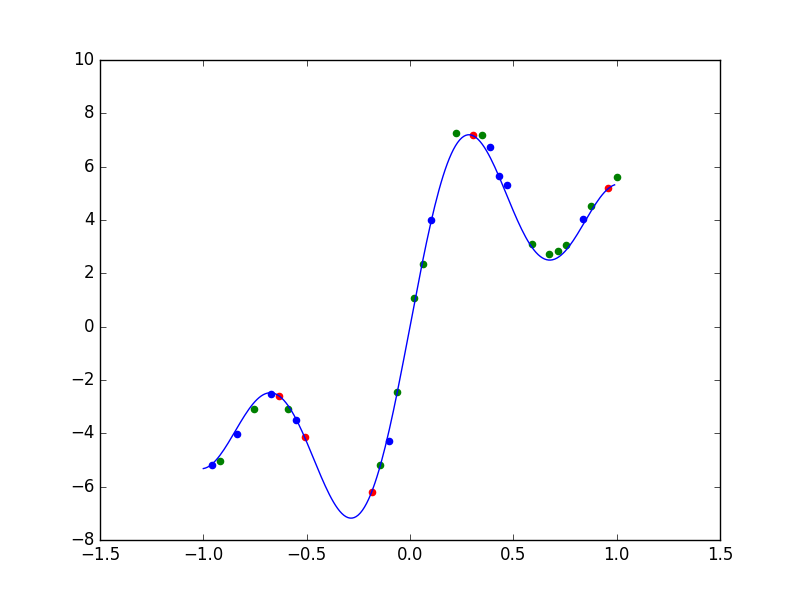
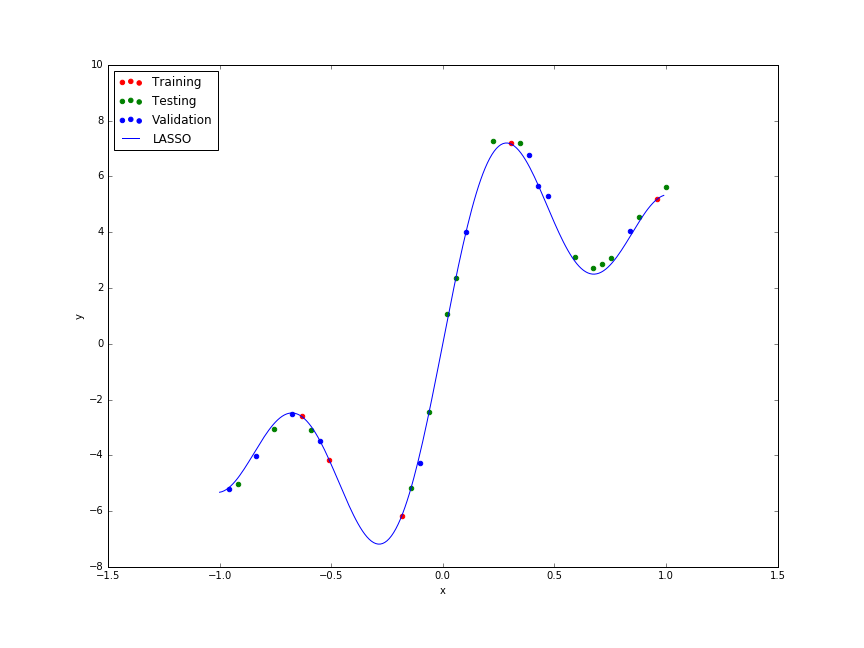
Fixed ridge regression, exclude offset

diff --git a/P3/figureRR.py b/P3/figureRR.py
@@ -1,6 +1,7 @@
 import numpy as np
 import regressData
 from matplotlib import pyplot as plt
+from sklearn.linear_model import Ridge
 
 def poly_basis(x, m):
     result = []
@@ -11,24 +12,29 @@ def poly_basis(x, m):
         result += [vector]
     return np.array(result)
 
-order = 5
+order = 10
 ax, ay = regressData.regressAData()
 bx, by = regressData.regressBData()
 vx, vy = regressData.validateData()
 
 def ridge_regression(x, y, c):
-    u = np.mean(x, 0)
+    u = np.mean(x, axis=0)
+    u[0] = 0
     z = x - u
     reg = c*np.eye(x.shape[1])
     w = np.linalg.inv(z.transpose().dot(z) + reg).dot(z.transpose()).dot(y)
     return (w, u)
 
-w, u = ridge_regression(poly_basis(ax, order), ay, 1.01)
-print(w)
-
-sx = np.array([i/100.0 for i in range(-290, 290)])
+w, u = ridge_regression(poly_basis(ax, order), ay, 0.1)
+sx = np.linspace(-2.5,2.5,10000)
 sy = (poly_basis(sx, order) - u).dot(w)
 plt.plot(sx, sy)
+
+clf = Ridge(alpha=0.1)
+clf.fit(poly_basis(ax, order), ay) 
+sx = np.linspace(-2.7,2.3,10000)
+sy = clf.predict(poly_basis(sx, order))
+plt.plot(sx, sy, 'g--')
 
 plt.scatter(ax, ay, color='b')
 plt.scatter(bx, by, color='r')

diff --git a/P2/figureLBFRCOS.py b/P2/figureLBFRCOS.py
@@ -37,11 +37,12 @@ def grad_desc(func, dfunc):
 w = grad_desc(func, dfunc)
 print("approx", w)
 
+"""
 # gradient descent least squares
 raw_x = [i/100.0 for i in range(101)]
 test_x = cos_basis(raw_x, cos_order)
 test_y = test_x.dot(w)
-plt.plot(raw_x,test_y)
+a, = plt.plot(raw_x,test_y, label="Predicted")
 
 # actual solution
 w = np.zeros(8)
@@ -51,10 +52,15 @@ print("actual", w)
 raw_x = [i/100.0 for i in range(101)]
 test_x = cos_basis(raw_x, cos_order)
 test_y = test_x.dot(w)
-plt.plot(raw_x,test_y,"g--")
+b, = plt.plot(raw_x,test_y,"g--",label="Actual")
 
 # original data points
 x, y = loadFittingDataP2.getData(False)
 plt.scatter(x, y)
 
+plt.legend(handles=[a, b])
+plt.title('Fitting Data: Cosine Basis')
+plt.xlabel('x')
+plt.ylabel('y')
 plt.show()
+"""

diff --git a/P4/figureLR.py b/P4/figureLR.py
@@ -29,9 +29,14 @@ clf = Lasso(alpha=0.01)
 clf.fit(transform(train_x), train_y)
 fake_x = np.array([i/100.0 for i in range(-100, 100)])
 fake_y = clf.predict(transform(fake_x))
-plt.plot(fake_x, fake_y)
 
-plt.scatter(train_x, train_y, color='r')
-plt.scatter(test_x, test_y, color='g')
-plt.scatter(val_x, val_y, color='b')
+plt.figure(figsize=(12, 9))
+aa, = plt.plot(fake_x, fake_y, label="LASSO")
+
+a = plt.scatter(train_x, train_y, color='r', label="Training")
+b = plt.scatter(test_x, test_y, color='g', label="Testing")
+c = plt.scatter(val_x, val_y, color='b', label="Validation")
+plt.legend(handles=[a, b, c, aa], loc=2)
+plt.xlabel('x')
+plt.ylabel('y')
 plt.savefig(__file__.split('/')[-1] + '.png')
